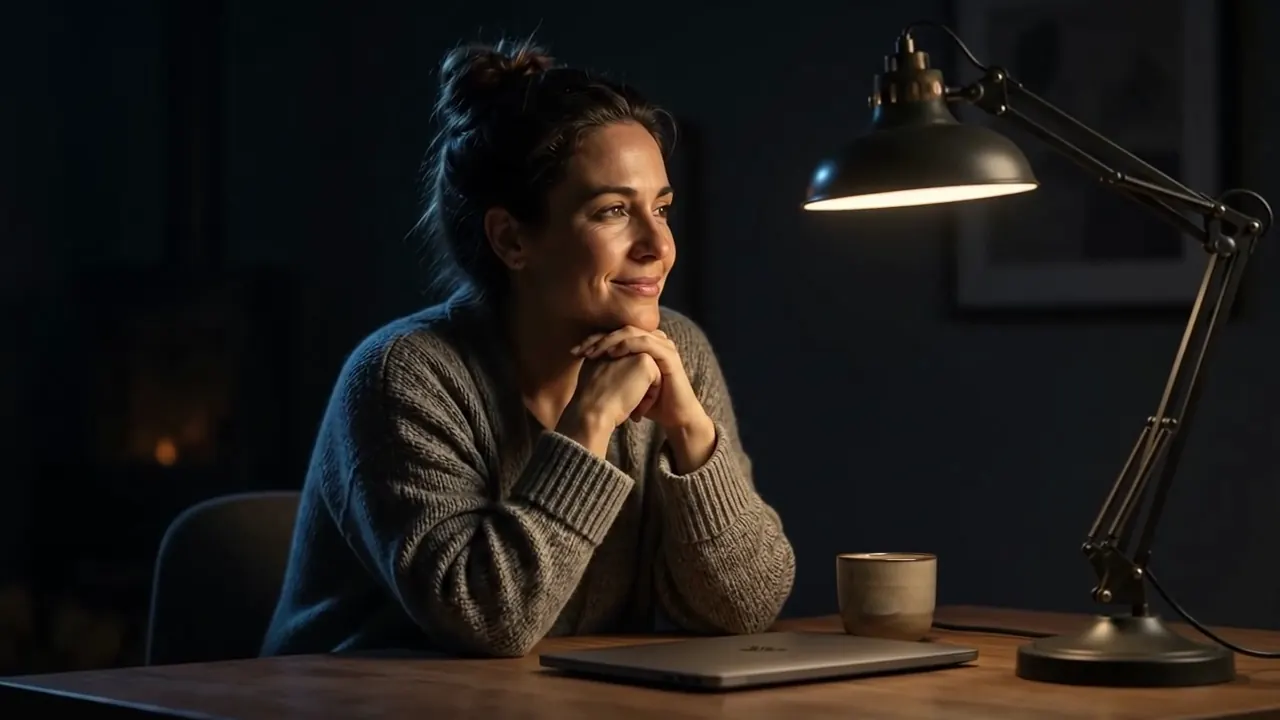
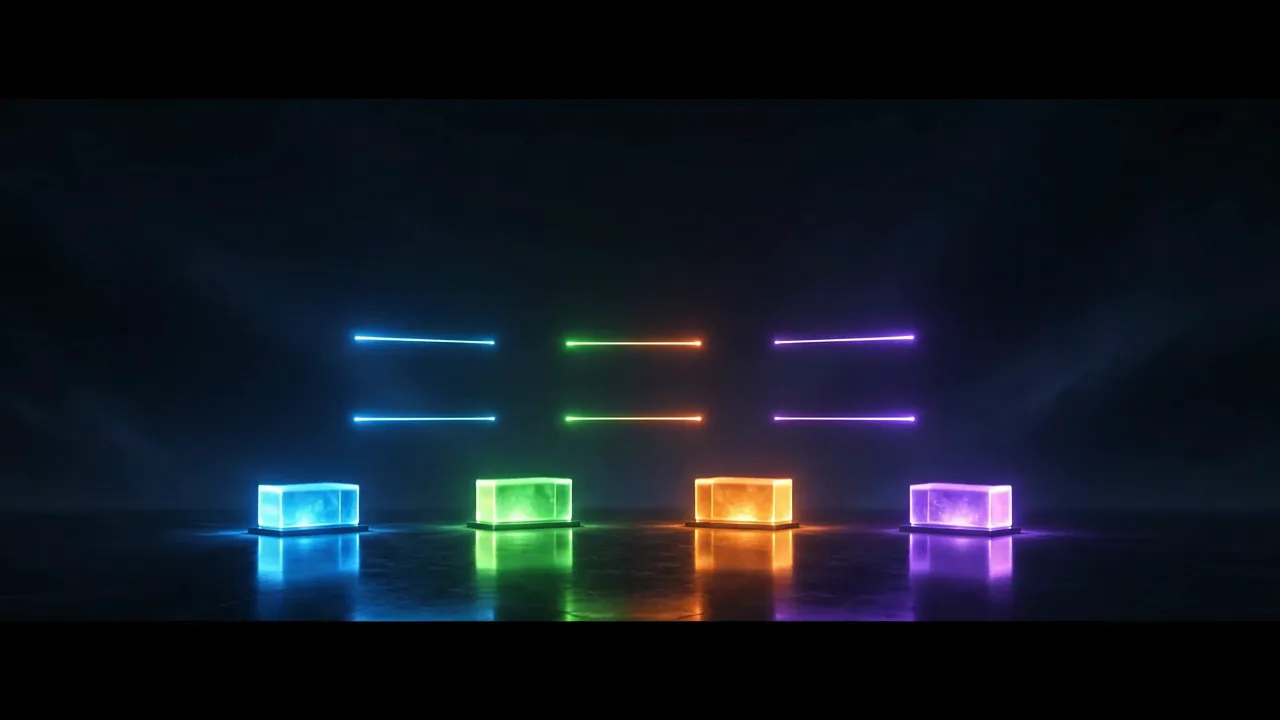
fix: replace wrong four-stacks landscape poster
Slide 03 was showing the the-question woman still whenever the poster layer was visible.

diff --git a/src/data/experienceMedia.test.ts b/src/data/experienceMedia.test.ts
@@ -1,4 +1,5 @@
-import { existsSync } from "node:fs";
+import { createHash } from "node:crypto";
+import { existsSync, readFileSync } from "node:fs";
 import { resolve } from "node:path";
 import { describe, expect, it } from "vitest";
 import { SLIDES } from "./slides";
@@ -12,6 +13,11 @@ import {
 } from "./experienceMedia";
 
 const appRoot = resolve(import.meta.dirname, "../..");
+
+function fileMd5(publicPath: string): string {
+  const abs = resolve(appRoot, publicExperiencePath(publicPath));
+  return createHash("md5").update(readFileSync(abs)).digest("hex");
+}
 
 describe("experienceMedia", () => {
   it("maps exactly 15 unique scenes that match SLIDES order", () => {
@@ -73,5 +79,15 @@ describe("experienceMedia", () => {
         ).toBe(true);
       }
     }
+  });
+
+  it("keeps four-stacks landscape poster distinct from the-question woman still", () => {
+    const question = experienceMediaForSlide("02-question")!.landscape.poster;
+    const fourStacks = experienceMediaForSlide("03-four-stacks")!.landscape.poster;
+    const questionHash = fileMd5(question);
+    const fourStacksHash = fileMd5(fourStacks);
+    expect(fourStacksHash).not.toBe(questionHash);
+    // Guard against a near-duplicate woman still being copied under the four-stacks name.
+    expect(fourStacksHash).toBe("49c66a63b61b7a0579c6d1e8ee798439");
   });
 });
